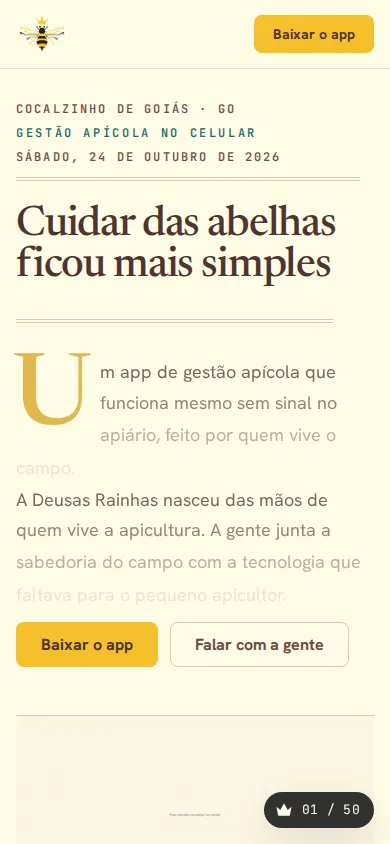
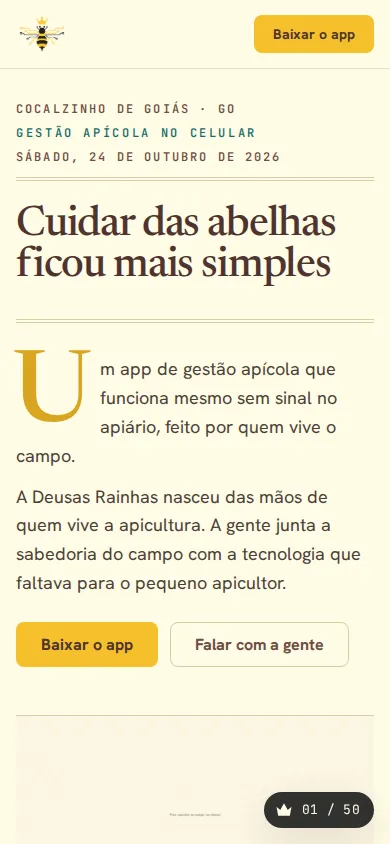
Remove cópia fixa do 01, leva correções globais para base.css e espera o movimento antes das capturas

Changed region(s): [[0.0308, 0.5853, 0.9231, 0.7085], [0.2462, 0.4313, 0.8615, 0.5237], [0.0308, 0.4005, 0.2462, 0.5545]]

diff --git a/templates/01-folha.html b/templates/01-folha.html
@@ -17,15 +17,12 @@
        com capitular, linhas reveladas ao rolar.
        Regras que todo template segue:
        - nada de opacity < 1 fora do gsap.matchMedia (texto "apagado" usa cor);
-       - [hidden] precisa vencer o display dos botões (.dr-btn é inline-flex);
        - canto inferior direito livre (pílula do switcher).
+       Strings geradas por JS que não são cópia, como o ano do © e a data de hoje, são permitidas; qualquer outro texto vem de conteudo.js.
        ================================================================= */
-    [hidden] { display: none !important; }
 
     :root { --nav-h: 80px; --respiro: var(--sp-7); }
     @media (max-width: 767px) { :root { --nav-h: 68px; --respiro: 40px; } }
-
-    @media (min-width: 768px) { .dr-container { padding-inline: var(--sp-6); } }
 
     h1, h2, h3, p, figure, blockquote, ul, ol { margin: 0; }
     ul, ol { padding: 0; list-style: none; }
@@ -303,7 +300,7 @@
   <!-- SEÇÃO: nav (N0 · barra fixa, logo à esquerda, CTA à direita) -->
   <nav data-secao="nav" class="masthead">
     <div class="dr-container masthead__barra">
-      <a class="marca" href="#inicio"><img src="../img/logos/logo-abelha-cor.png" alt="Deusas Rainhas" width="64" height="64"></a>
+      <a class="marca" href="#inicio"><img src="../img/logos/logo-abelha-cor.png" alt="" data-c-alt="marca.alt" width="64" height="64"></a>
       <div class="masthead__links">
         <a href="#funcionalidades" data-c="funcionalidades.eyebrow"></a>
         <a href="#como-funciona" data-c="comoFunciona.eyebrow"></a>
@@ -330,6 +327,7 @@
         <div class="regra"></div>
         <div class="lede">
           <p class="lede-capitular" data-linhas data-c="hero.subtitulo"></p>
+          <!-- equipe.origem no lide é escolha específica do 01; as cópias mantêm equipe.origem na seção equipe por padrão. -->
           <p data-linhas data-c="equipe.origem"></p>
           <div class="lede-acoes">
             <a class="dr-btn dr-btn--primario" data-c="cta.baixar.texto" data-c-href="cta.baixar.url"></a>
@@ -482,6 +480,7 @@
 
     <!-- SEÇÃO: equipe (assinaturas + faixa grafite de apoios) -->
     <section data-secao="equipe" id="equipe">
+      <!-- No 01, equipe.origem foi para o lide do hero (escolha específica deste template); as cópias mantêm equipe.origem aqui, abaixo do título, por padrão. -->
       <div class="dr-container">
         <header class="cabeca">
           <p class="dr-eyebrow" data-c="equipe.eyebrow"></p>
@@ -589,10 +588,10 @@
   <!-- SEÇÃO: rodape (hidratar.js acrescenta aqui o aviso de dados provisórios) -->
   <footer data-secao="rodape">
     <div class="dr-container rodape">
-      <img src="../img/logos/logo-negativa.png" alt="Deusas Rainhas" width="72" height="72">
+      <img src="../img/logos/logo-negativa.png" alt="" data-c-alt="marca.alt" width="72" height="72">
       <div>
         <p class="rodape__razao" data-c="rodape.razaoSocial"></p>
-        <p>CNPJ <span data-c="rodape.cnpj"></span></p>
+        <p><span data-c="rodape.cnpjRotulo"></span> <span data-c="rodape.cnpj"></span></p>
         <p data-c="rodape.endereco"></p>
       </div>
       <div>

diff --git a/js/conteudo.js b/js/conteudo.js
@@ -12,6 +12,8 @@ window.DR_CONTEUDO = (function () {
   var whatsappUrl = { v: 'https://wa.me/5562999990000', provisorio: 'whatsapp' };
 
   return {
+    marca: { nome: 'Deusas Rainhas', alt: 'Deusas Rainhas' },
+
     hero: {
       eyebrow: 'Gestão apícola no celular',
       titulo: 'Cuidar das abelhas ficou mais simples',
@@ -251,6 +253,7 @@ window.DR_CONTEUDO = (function () {
     rodape: {
       razaoSocial: { v: 'Deusas Rainhas Tecnologia Apícola Ltda.', provisorio: 'razao-social' },
       cnpj: { v: '00.000.000/0001-00', provisorio: 'cnpj' },
+      cnpjRotulo: 'CNPJ',
       endereco: { v: 'Cocalzinho de Goiás · GO', provisorio: 'endereco' },
       privacidade: { texto: 'Política de privacidade', url: '../privacidade.html' },
       avisoProvisorio: 'Site em construção. Dados de contato e números são provisórios.',

diff --git a/css/base.css b/css/base.css
@@ -1,6 +1,8 @@
 /* Deusas Rainhas — base compartilhada. Usa apenas tokens de tokens.css. */
 
 *, *::before, *::after { box-sizing: border-box; }
+/* [hidden] vence o display de componentes (ex.: .dr-btn é inline-flex). */
+[hidden] { display: none !important; }
 html { scroll-behavior: smooth; }
 body { margin: 0; background: var(--creme); color: var(--corpo); font-family: var(--sans); }
 img { max-width: 100%; display: block; }
@@ -16,6 +18,7 @@ img { max-width: 100%; display: block; }
 }
 
 .dr-container { max-width: 1200px; margin-inline: auto; padding-inline: 16px; }
+@media (min-width: 768px) { .dr-container { padding-inline: 32px; } }
 
 /* Botões */
 .dr-btn {

diff --git a/scripts/verificar.py b/scripts/verificar.py
@@ -92,6 +92,7 @@ def verificar_template(page, url, viewport_nome="desktop", thumb=None):
         if thumb is not None:
             page.evaluate("window.scrollTo({top: 0, behavior: 'instant'})")
             page.wait_for_timeout(200)
+            page.wait_for_timeout(1500)  # movimento de carga assenta antes da captura
             thumb.parent.mkdir(parents=True, exist_ok=True)
             page.screenshot(path=str(thumb), type="webp", quality=80)
     except Exception as e:  # noqa: BLE001 - timeouts etc. viram motivo, não crash
